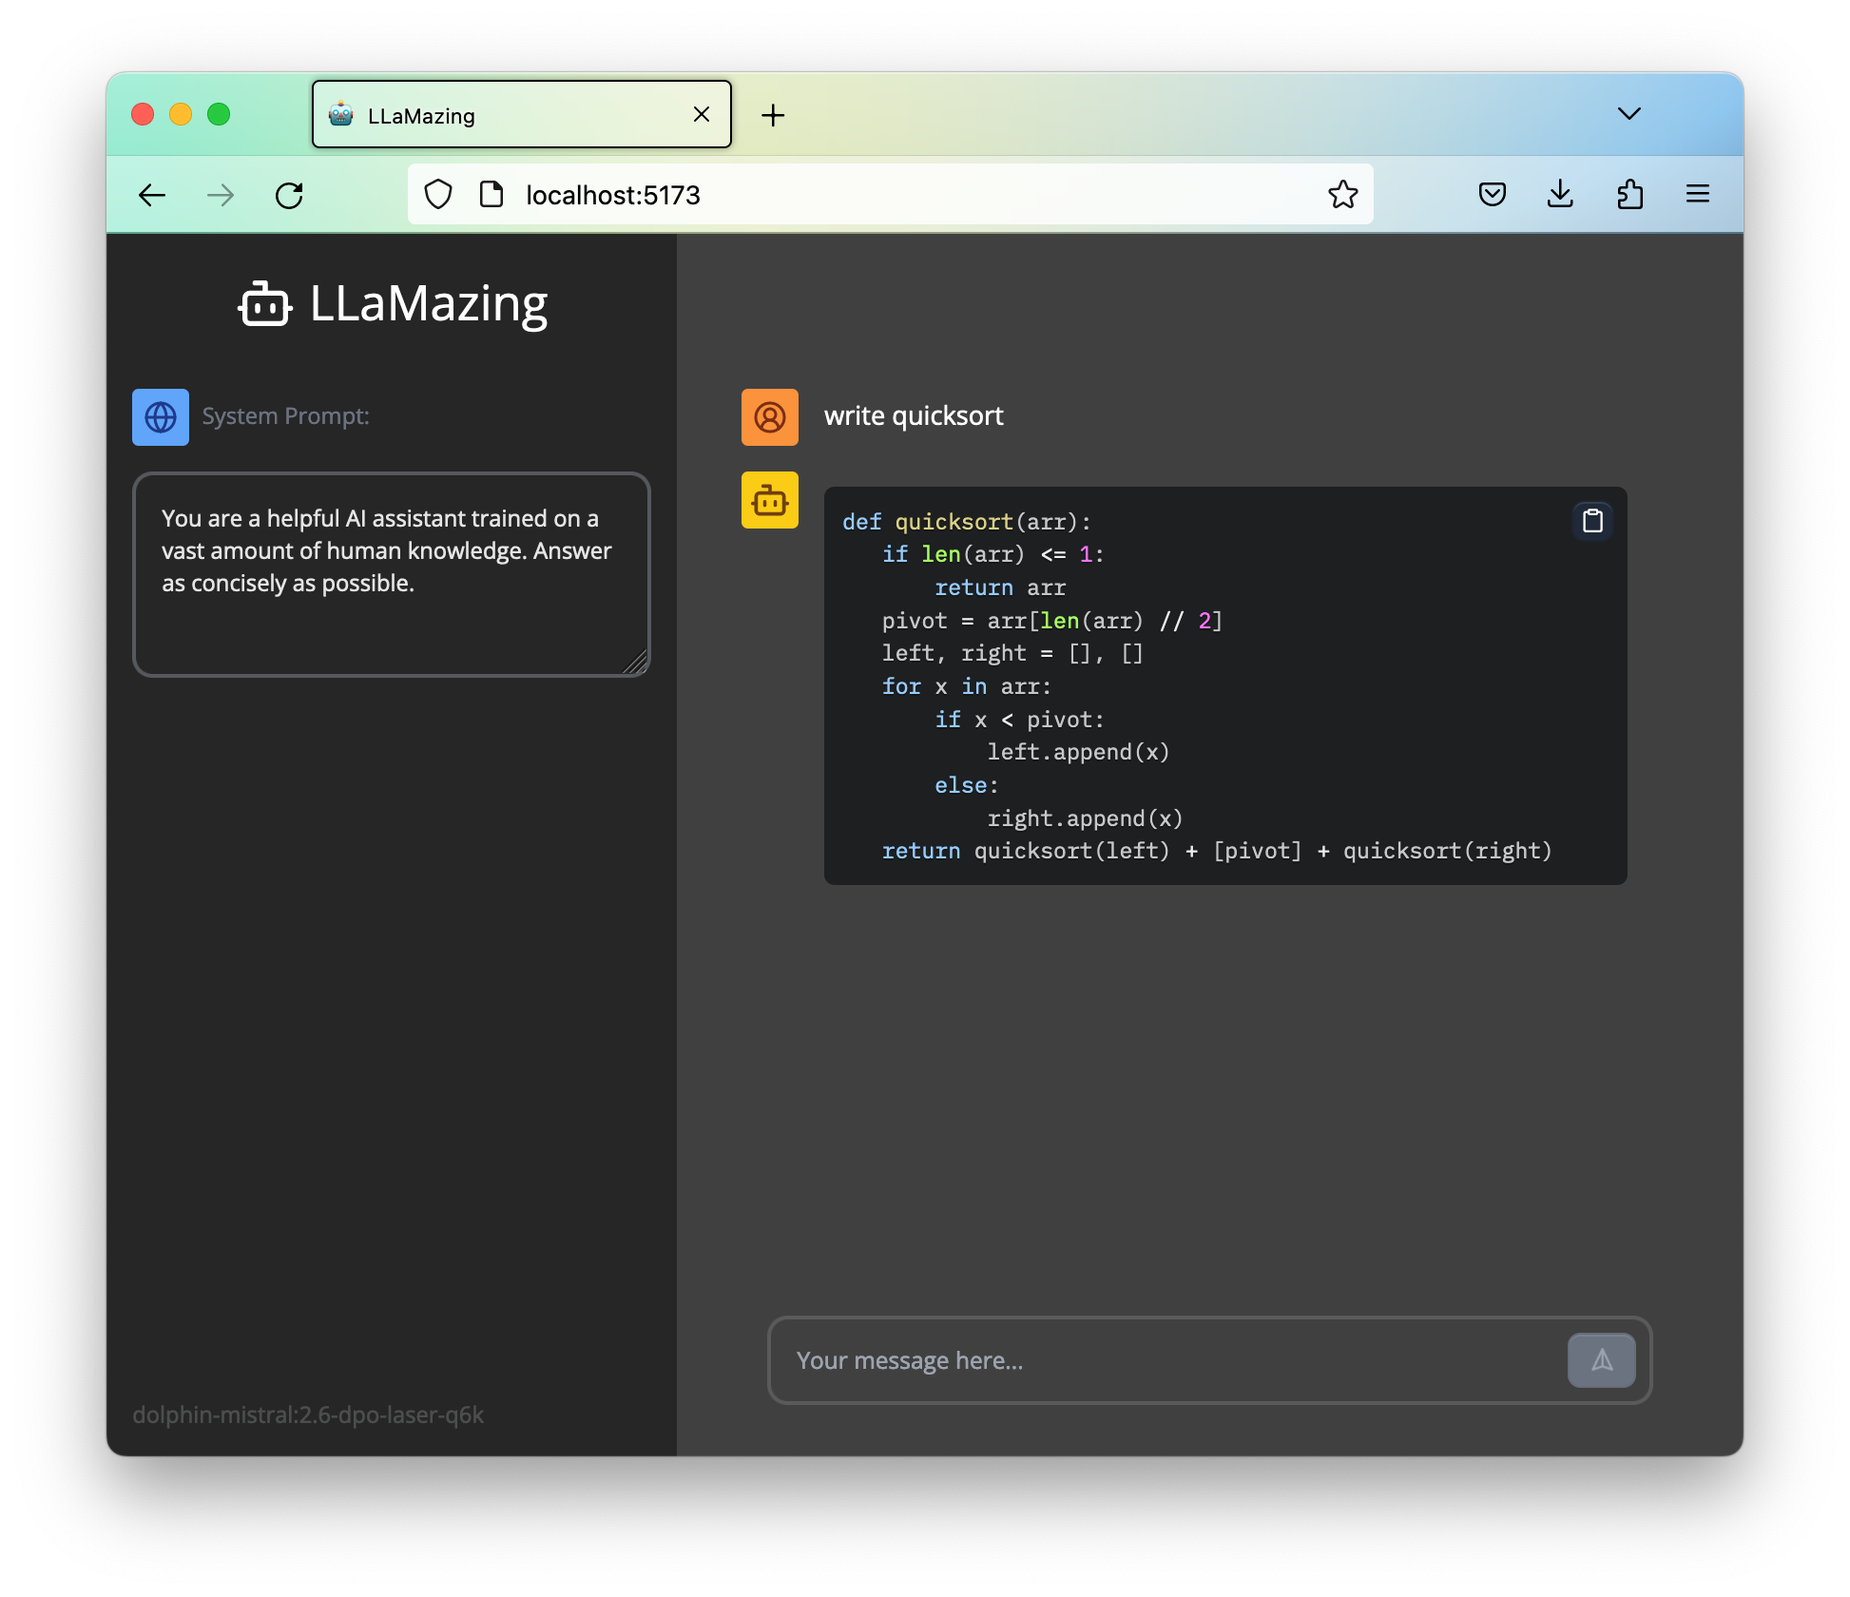
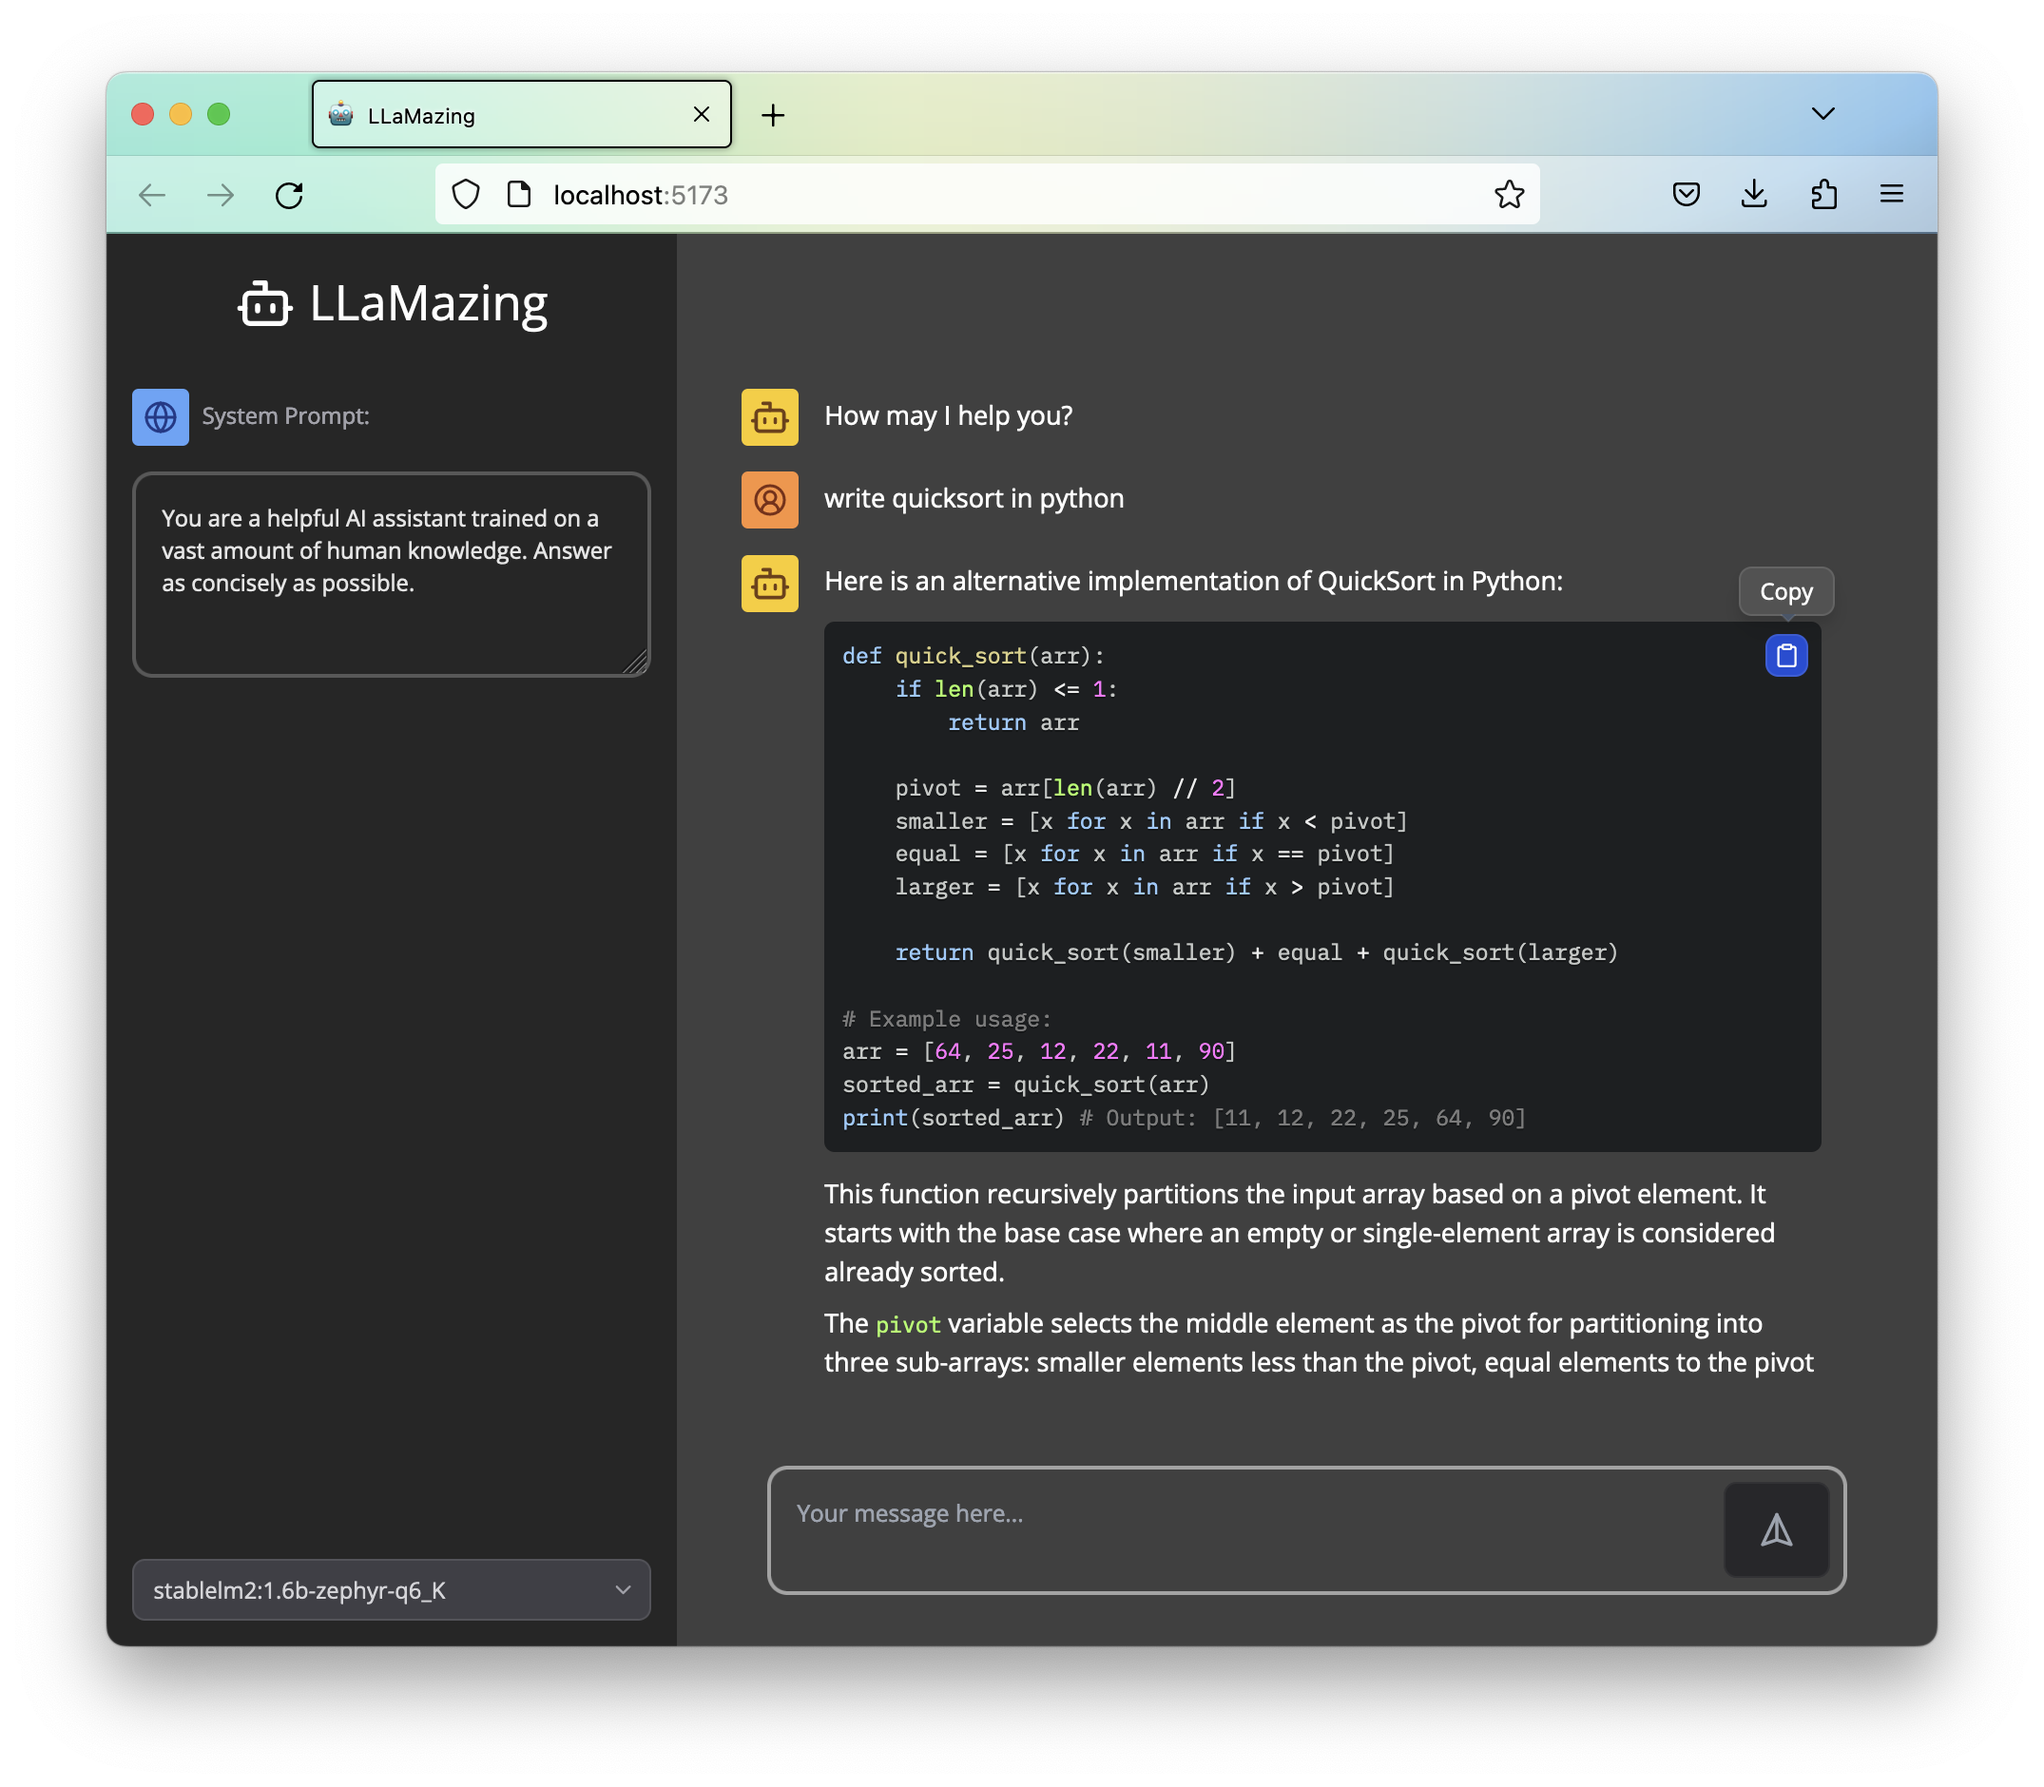
chore: update

Changed region(s): [[0.0308, 0.031, 0.9558, 0.9286]]

diff --git a/src/App.tsx b/src/App.tsx
@@ -10,6 +10,9 @@ import { TextArea, TooltipTrigger } from "react-aria-components";
 import { Select } from "./rac/Select.tsx";
 import { ListBoxItem } from "./rac/ListBox.tsx";
 
+const super_prompt =
+  "*Always* format your responses in Markdown format, unless requested otherwise";
+
 function App() {
   const [prompt, setPrompt] = useState(``);
   const [systemPrompt, setSystemPrompt] = useState(
@@ -32,7 +35,7 @@ function App() {
 
   const chat = async (message: string) => {
     const newMessages = [
-      { role: "system", content: systemPrompt },
+      { role: "system", content: systemPrompt + "\n\n" + super_prompt },
       ...messages,
       { role: "user", content: message },
     ];
